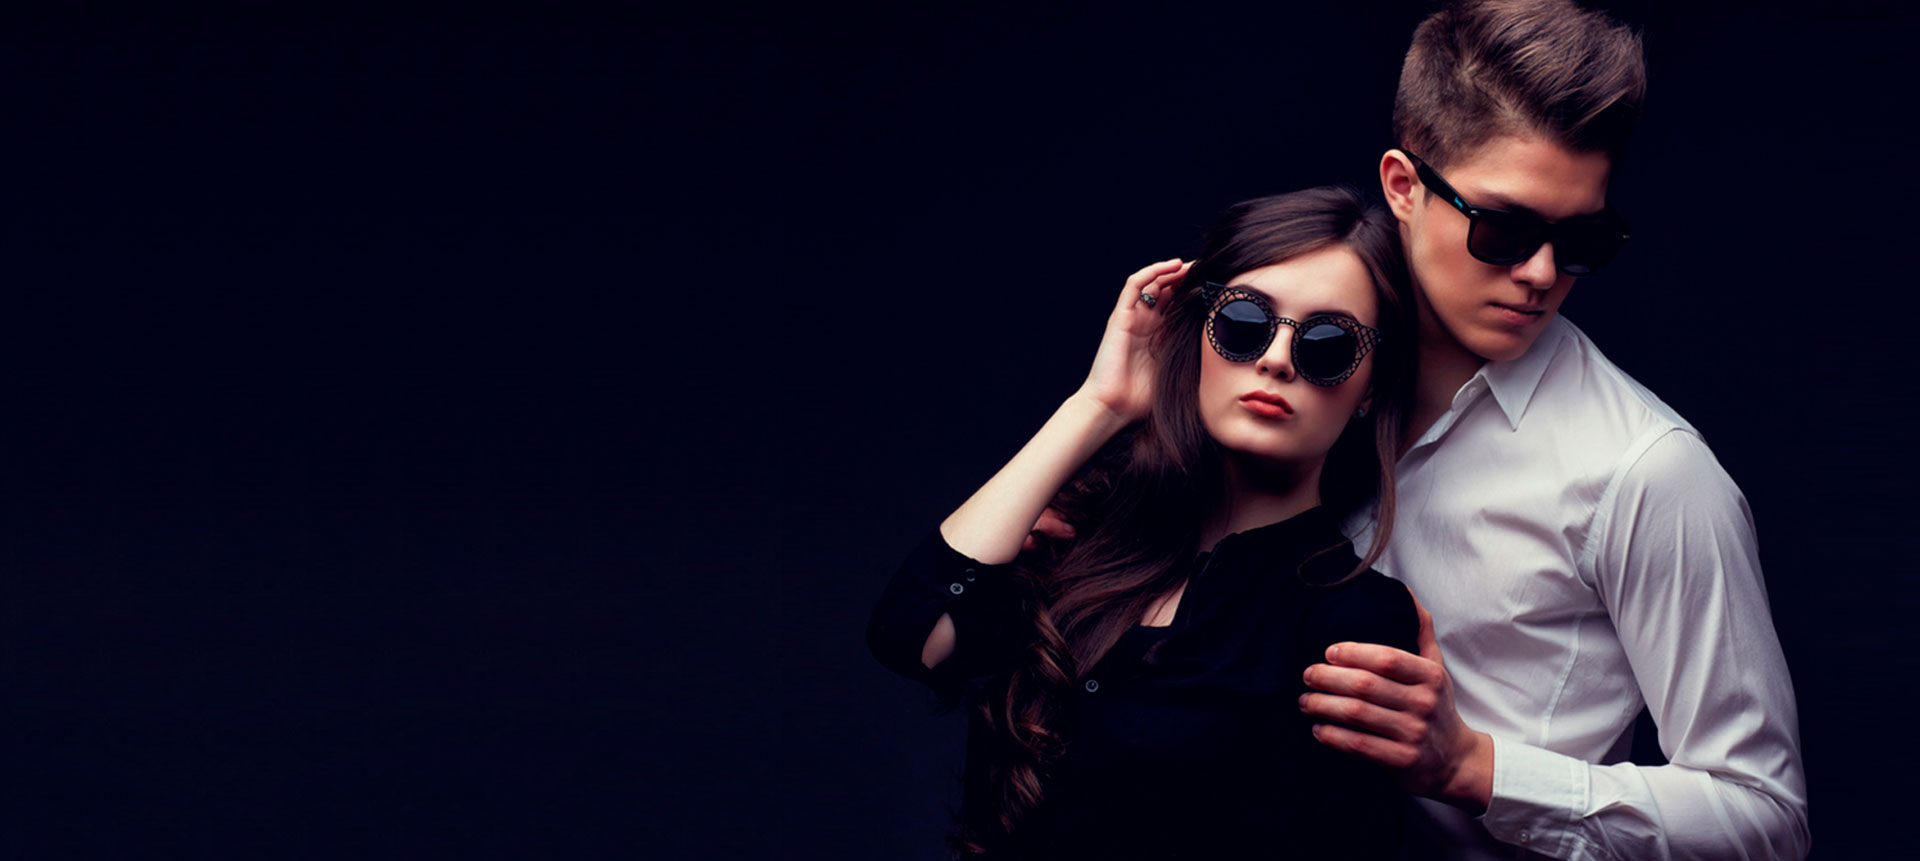
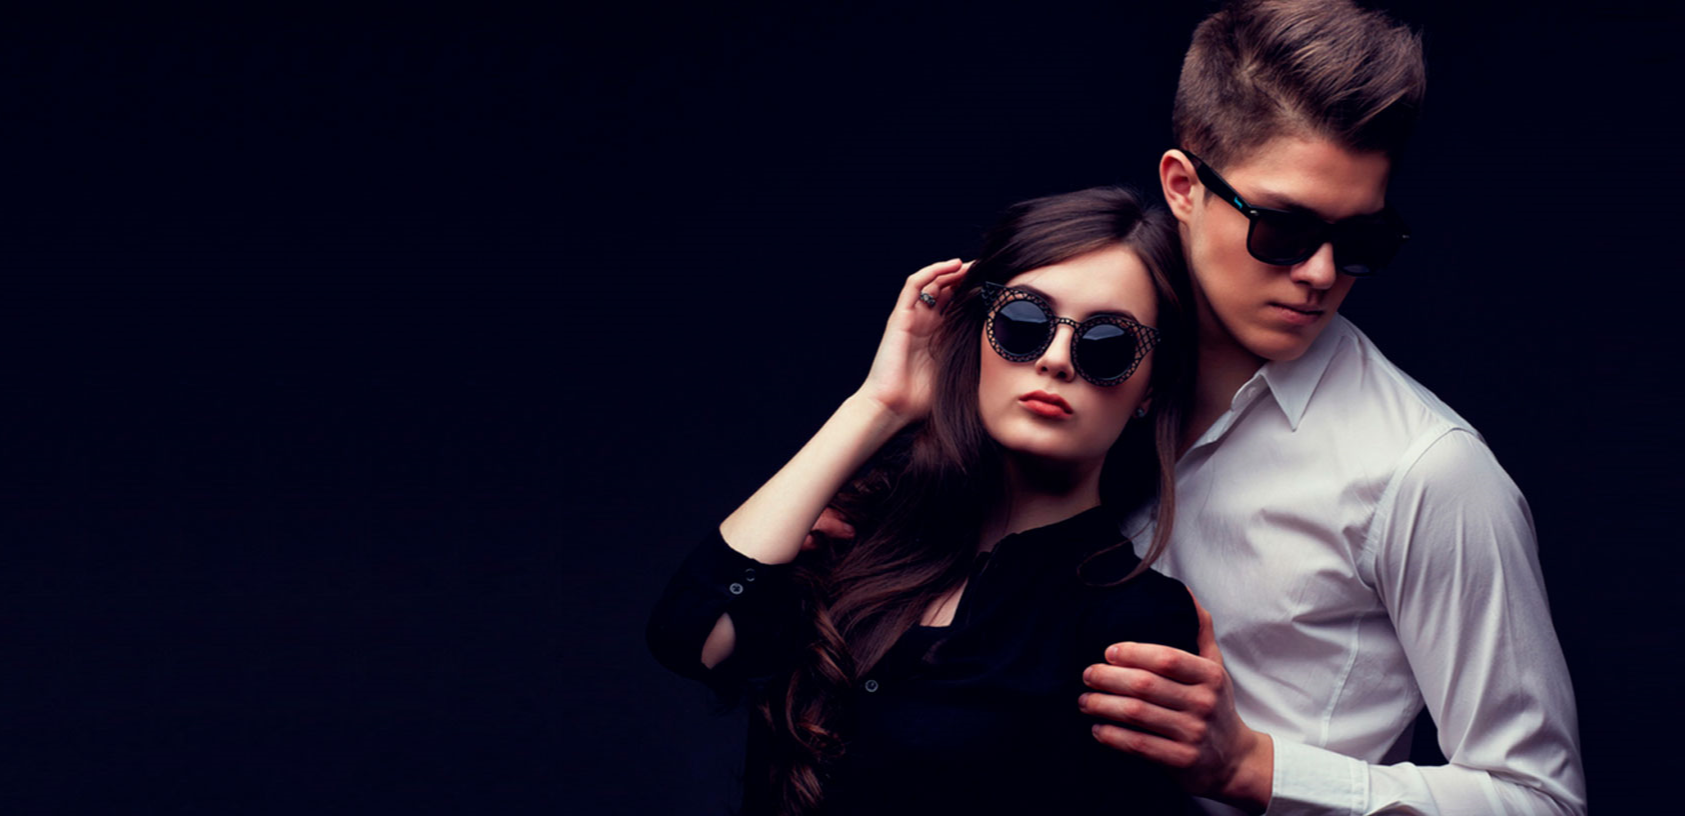
Iniciando estilização

diff --git a/otica/src/componentes/SecaoCapa/style.css b/otica/src/componentes/SecaoCapa/style.css
@@ -1,7 +1,7 @@
 .capa{  
     background-image: url('/public/assets/imagens/capa.png');
-    background: linear-gradient(47deg, #000113 0%, #04061D 80%, #04061D 100%);
-    height: 80%;
+    background-size: cover;
+    height: 800px;
     width: 100%;
 }
 
@@ -13,7 +13,8 @@
     flex-direction:column;
     justify-content:flex-start;
     font-family: 'Anybody', Verdana , cursive;
-
+    margin-left: 150px;
+    padding-top:80px
 }
 
 #cp p{
